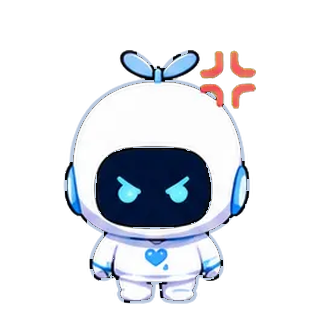
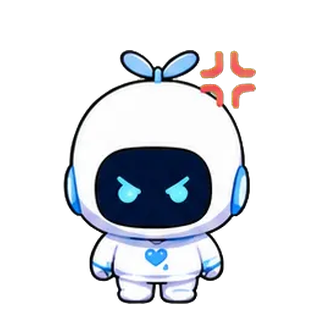
Revert "refine pet outlines and code surfaces"
This reverts commit 448aff7886e46cc78f66d7fc4dae27508308efcb.

diff --git a/app/page.tsx b/app/page.tsx
@@ -1821,15 +1821,32 @@ function LessonNotes({
   );
 }
 
-function GraphDocumentExport() {
+function GraphDocumentExport({ lesson }: { lesson: Course }) {
+  const [format, setFormat] = useState<"pdf" | "word">("pdf");
+
   function exportDocument() {
-    document.body.classList.add("print-mindmap");
-    const cleanup = () => document.body.classList.remove("print-mindmap");
-    window.addEventListener("afterprint", cleanup, { once: true });
-    window.setTimeout(() => window.print(), 40);
+    if (format === "pdf") {
+      document.body.classList.add("print-mindmap");
+      const cleanup = () => document.body.classList.remove("print-mindmap");
+      window.addEventListener("afterprint", cleanup, { once: true });
+      window.setTimeout(() => window.print(), 40);
+      return;
+    }
+    const section = document.querySelector("#map");
+    if (!section) return;
+    const clone = section.cloneNode(true) as HTMLElement;
+    clone.querySelectorAll("button,select,.react-flow__controls,.react-flow__minimap").forEach((element) => element.remove());
+    const html = `<!doctype html><html><head><meta charset="utf-8"><title>${lesson.title}知识图谱</title><style>body{font-family:Arial,'Microsoft YaHei';padding:32px;color:#162033}h1,h2{color:#102a43}.graph-shell{height:720px;border:1px solid #ccd5e0;position:relative;overflow:hidden}.react-flow{width:100%;height:100%}.knowledge-node{border:1px solid #789;padding:10px;border-radius:8px;background:#fff}.node-title,.node-description{border:0;width:100%}</style></head><body><h1>Blinga coding · ${lesson.title}</h1>${clone.outerHTML}</body></html>`;
+    const blob = new Blob(["\ufeff", html], { type: "application/msword" });
+    const url = URL.createObjectURL(blob);
+    const link = document.createElement("a");
+    link.href = url;
+    link.download = `${lesson.title}-知识图谱.doc`;
+    link.click();
+    URL.revokeObjectURL(url);
   }
 
-  return <div className="document-export glass"><div><b>导出当前知识图谱</b></div><button onClick={exportDocument}>⇩ 导出 PDF</button></div>;
+  return <div className="document-export glass"><div><b>导出当前知识图谱</b></div><label><span>格式</span><select value={format} onChange={(event) => setFormat(event.target.value as "pdf" | "word")}><option value="pdf">PDF</option><option value="word">Word</option></select></label><button onClick={exportDocument}>⇩ 导出{format === "pdf" ? " PDF" : " Word"}</button></div>;
 }
 
 export default function Home() {
@@ -2339,7 +2356,7 @@ export default function Home() {
               lessonTitle={lesson.title}
             />
             <StableKnowledgeGraph lesson={lesson} code={lesson.code} />
-            <GraphDocumentExport />
+            <GraphDocumentExport lesson={lesson} />
             <StableSandbox lang={lang} setLang={setLang} lesson={lesson} topicIndex={selectedTopicIndex} onContextChange={syncSandboxContext} onLessonCompleted={markLessonCompleted} />
           </section>
         </div>

diff --git a/app/code-editor.tsx b/app/code-editor.tsx
@@ -27,25 +27,24 @@ type Props = {
 const languageExtensions = { Python: python(), "C/C++": cpp(), JavaScript: javascript(), Java: java() } as const;
 
 const syntaxTheme = HighlightStyle.define([
-  { tag: [tags.keyword, tags.controlKeyword, tags.definitionKeyword], color: "#ff7ab2" },
-  { tag: [tags.string, tags.special(tags.string)], color: "#fc6a5d" },
-  { tag: [tags.number, tags.bool, tags.null], color: "#d0bf69" },
-  { tag: [tags.comment, tags.lineComment, tags.blockComment], color: "#7f8c98", fontStyle: "italic" },
-  { tag: [tags.function(tags.variableName), tags.function(tags.propertyName)], color: "#67b7ff" },
-  { tag: [tags.className, tags.typeName], color: "#dabaff" },
-  { tag: [tags.operator, tags.punctuation], color: "#a1a1a6" },
-  { tag: [tags.variableName, tags.propertyName], color: "#f2f2f7" },
+  { tag: [tags.keyword, tags.controlKeyword, tags.definitionKeyword], color: "#c4b5fd" },
+  { tag: [tags.string, tags.special(tags.string)], color: "#a6e3a1" },
+  { tag: [tags.number, tags.bool, tags.null], color: "#fab387" },
+  { tag: [tags.comment, tags.lineComment, tags.blockComment], color: "#6c7086", fontStyle: "italic" },
+  { tag: [tags.function(tags.variableName), tags.function(tags.propertyName)], color: "#89b4fa" },
+  { tag: [tags.className, tags.typeName], color: "#f9e2af" },
+  { tag: [tags.operator, tags.punctuation, tags.variableName, tags.propertyName], color: "#cdd6f4" },
 ]);
 
 const editorTheme = EditorView.theme({
-  "&": { height: "100%", color: "#f2f2f7", backgroundColor: "#1c1c1e", fontFamily: "var(--font-geist-mono), SFMono-Regular, Consolas, monospace", fontSize: "13px" },
+  "&": { height: "100%", color: "#cdd6f4", backgroundColor: "#1e1e2e", fontFamily: "var(--font-geist-mono), SFMono-Regular, Consolas, monospace", fontSize: "13px" },
   ".cm-scroller": { overflow: "auto", lineHeight: "1.75" },
   ".cm-content": { padding: "24px 0 28px", caretColor: "#f5f7ff" },
   ".cm-line": { padding: "0 24px" },
-  ".cm-gutters": { color: "#636366", backgroundColor: "#1c1c1e", border: "0", paddingTop: "24px" },
+  ".cm-gutters": { color: "#6c7086", backgroundColor: "#1e1e2e", border: "0", paddingTop: "24px" },
   ".cm-gutterElement": { padding: "0 12px 0 16px" },
-  ".cm-activeLine, .cm-activeLineGutter": { backgroundColor: "#2c2c2e" },
-  ".cm-selectionBackground, &.cm-focused .cm-selectionBackground, ::selection": { backgroundColor: "#264f78" },
+  ".cm-activeLine, .cm-activeLineGutter": { backgroundColor: "#29293d" },
+  ".cm-selectionBackground, &.cm-focused .cm-selectionBackground, ::selection": { backgroundColor: "#45475a" },
   ".cm-cursor, .cm-dropCursor": { borderLeftColor: "#f5f7ff" },
   ".cm-focused": { outline: "none" },
 }, { dark: true });

diff --git a/app/light-ui.css b/app/light-ui.css
@@ -173,36 +173,20 @@
 .light-ui .code-example, .light-ui .deep-example, .light-ui .sandbox, .light-ui .run-history, .light-ui .code-viewer-dialog {
   border: 0 !important;
   border-radius: var(--ui-radius) !important;
-  background: #1c1c1e !important;
+  background: #1e1e2e !important;
   box-shadow: none !important;
   overflow: hidden;
 }
 .light-ui .pane-head, .light-ui .editor-foot, .light-ui .judge-row, .light-ui .run-history-head, .light-ui .code-viewer-titlebar {
   border: 0 !important;
-  color: #aeaeb2 !important;
-  background: #2c2c2e !important;
+  color: #cdd6f4 !important;
+  background: #29293d !important;
 }
 .light-ui .code-example pre, .light-ui .deep-example pre, .light-ui .terminal-pane > pre, .light-ui .stdin-panel textarea,
-.light-ui .code-viewer-source, .light-ui .code-viewer-lines { background: #1c1c1e !important; color: #f2f2f7 !important; }
-.light-ui .code-editor { height: 370px; background: #1c1c1e; }
-.light-ui .editor-pane, .light-ui .terminal-pane, .light-ui .stdin-panel, .light-ui .example-explain { border: 0 !important; background: #1c1c1e !important; }
-.light-ui .terminal-pane > pre { color: #30d158 !important; }
-.light-ui .pane-head button,
-.light-ui .editor-file-actions button,
-.light-ui .editor-actions button,
-.light-ui .judge-row button {
-  color: #f2f2f7 !important;
-  background: #3a3a3c !important;
-}
-.light-ui .editor-actions .run,
-.light-ui .editor-actions .judge-submit {
-  color: #ffffff !important;
-  background: #0a84ff !important;
-}
-.light-ui .editor-actions .stop-run {
-  color: #ff6961 !important;
-  background: #3a2a2a !important;
-}
+.light-ui .code-viewer-source, .light-ui .code-viewer-lines { background: #1e1e2e !important; color: #cdd6f4 !important; }
+.light-ui .code-editor { height: 370px; background: #1e1e2e; }
+.light-ui .editor-pane, .light-ui .terminal-pane, .light-ui .stdin-panel, .light-ui .example-explain { border: 0 !important; background: #1e1e2e !important; }
+.light-ui .terminal-pane > pre { color: #a6e3a1 !important; }
 .light-ui .status-dot, .light-ui .judge-row b.passed, .light-ui .accepted, .light-ui .success { color: var(--ui-brand) !important; background: var(--ui-brand) !important; }
 .light-ui .failed, .light-ui .error, .light-ui .wrong { color: #fb7185 !important; }
 

diff --git a/app/globals.css b/app/globals.css
@@ -1415,22 +1415,22 @@ button.hover-bounce:focus-visible{
 
 /* Xcode code surfaces — visual-only layer */
 :root{
-  --xcode-window:#1c1c1e;
-  --xcode-editor:#1c1c1e;
-  --xcode-gutter:#1c1c1e;
-  --xcode-titlebar-top:#323234;
-  --xcode-titlebar-bottom:#2c2c2e;
-  --xcode-statusbar-top:#2c2c2e;
-  --xcode-statusbar-bottom:#242426;
-  --xcode-border:rgba(255,255,255,.09);
-  --xcode-divider:rgba(255,255,255,.07);
-  --xcode-text:#f2f2f7;
-  --xcode-secondary:#aeaeb2;
-  --xcode-tertiary:#636366;
-  --xcode-blue:#0a84ff;
-  --xcode-console:#30d158;
-  --xcode-warning:#ffd60a;
-  --xcode-error:#ff453a;
+  --xcode-window:#0b0d12;
+  --xcode-editor:#080a0f;
+  --xcode-gutter:#0d1016;
+  --xcode-titlebar-top:#30323a;
+  --xcode-titlebar-bottom:#22242b;
+  --xcode-statusbar-top:#25272e;
+  --xcode-statusbar-bottom:#1a1c22;
+  --xcode-border:rgba(255,255,255,.105);
+  --xcode-divider:rgba(255,255,255,.075);
+  --xcode-text:#d9dee8;
+  --xcode-secondary:#9299a6;
+  --xcode-tertiary:#5d6573;
+  --xcode-blue:#7f8fff;
+  --xcode-console:#62d69f;
+  --xcode-warning:#f2c66d;
+  --xcode-error:#ff837a;
   --xcode-red:#ff5f57;
   --xcode-yellow:#febc2e;
   --xcode-green:#28c840;
